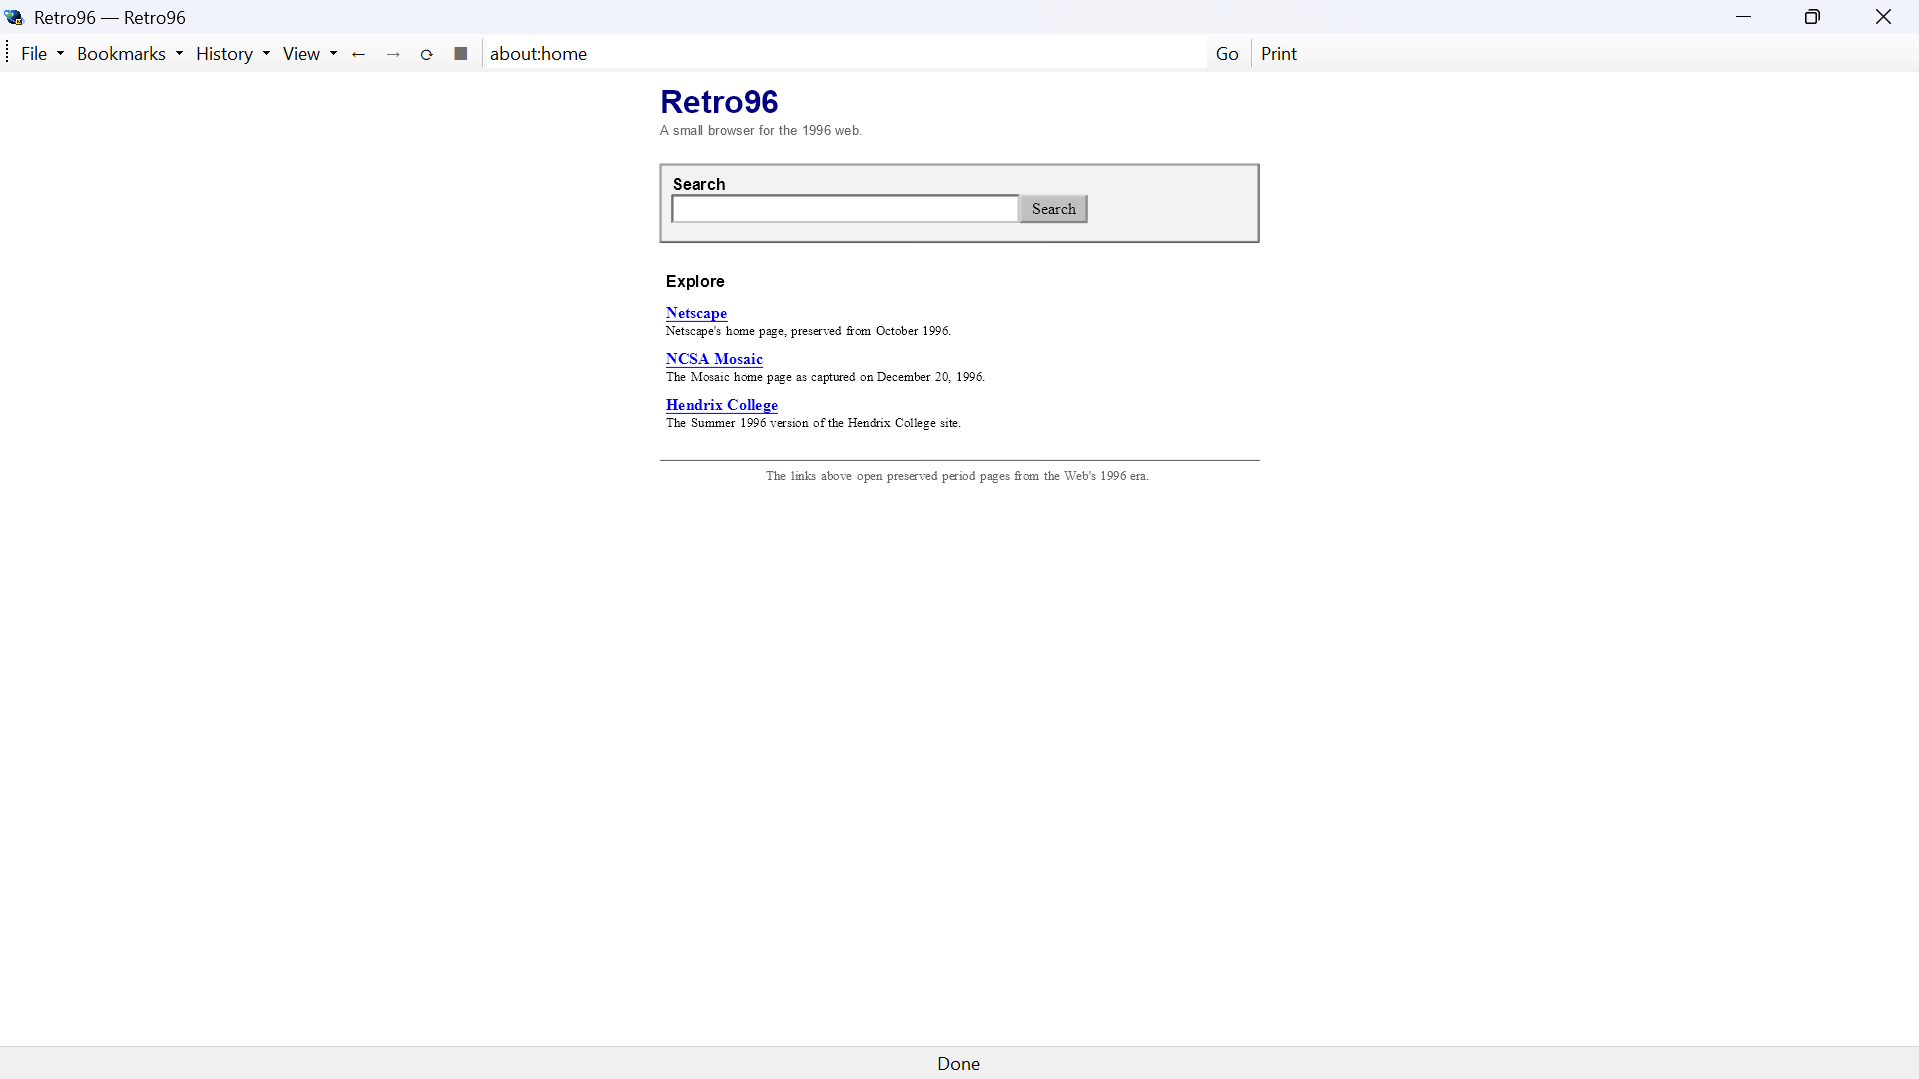
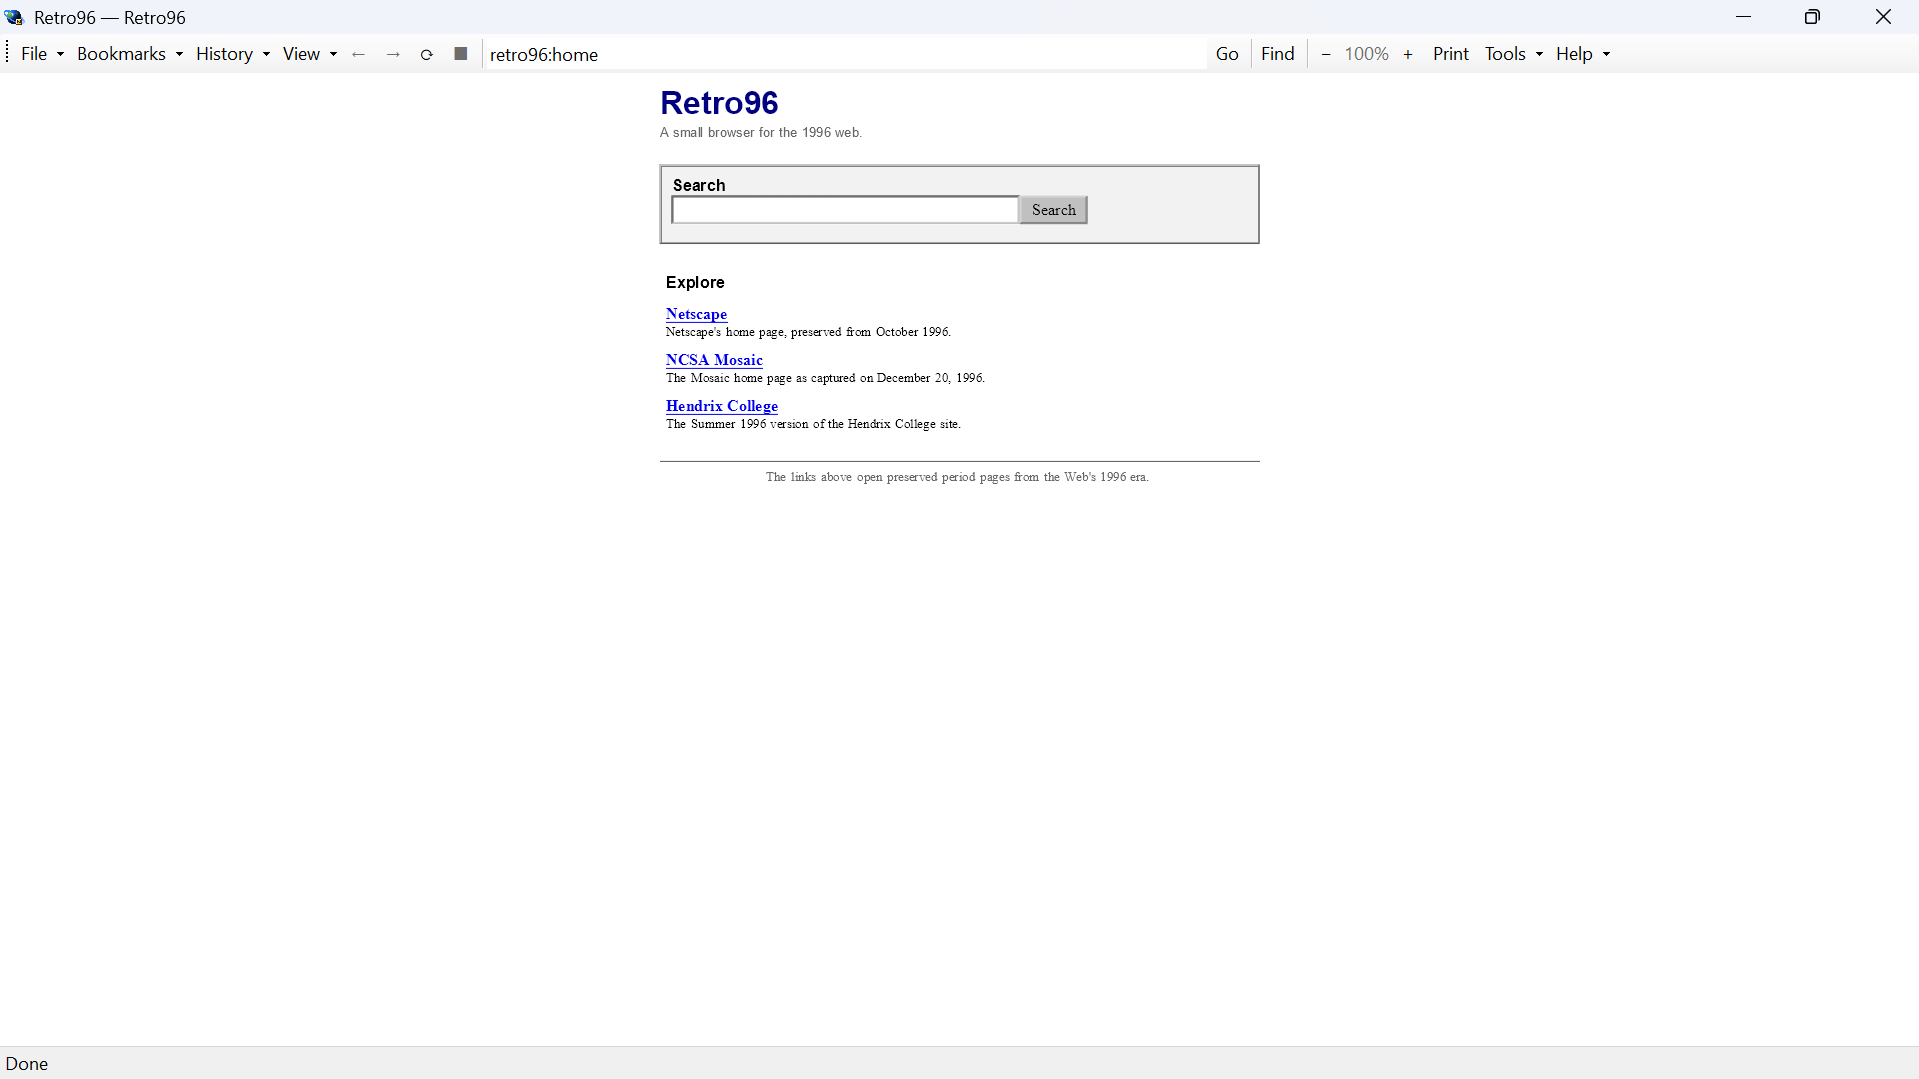
fix and update docs and screenshots

diff --git a/retro96/BrowserCanvas.cs b/retro96/BrowserCanvas.cs
@@ -5560,21 +5560,30 @@ public class BrowserCanvas : SKGLControl
             if (el.HasAttr("disabled"))
                 return;
 
-            string type = el.GetAttrOrDefault("type", "text").Trim().ToLowerInvariant();
             if (IsEditableField(el))
             {
                 if (HandleEditableFieldMouseDown(el, deepest!, x, y, null, _jsInterpreter, e))
                     return;
                 return;
             }
-            if (!IsPageSelectableControl(el))
-                return;
 
-            // Keep the pressed visual/activation state, but allow the pointer
-            // to fall through to the page range model so dragging can select
-            // the control's label instead of suppressing selection entirely.
+            // Paint the native-looking Win95 press immediately.  The chrome is
+            // recorded into the cached display list, so merely invalidating the
+            // control is not enough after changing PressedElement.
             _pressedControl = el;
             _pressedControlFrame = null;
+            RerenderNow();
+
+            if (!IsPageSelectableControl(el))
+            {
+                // Push buttons and other activation-only controls must own the
+                // pointer until mouse-up so their click is delivered reliably.
+                Capture = true;
+                return;
+            }
+
+            // Selectable controls still fall through to the page range model so
+            // dragging can select their label instead of suppressing selection.
         }
 
         // Page text selection drag.  FIX: a fresh press on blank space used

diff --git a/README.md b/README.md
@@ -6,7 +6,7 @@ Built for fun. Runs on Windows. Has no chill.
 
 ![Retro96 home page](docs/retro96-homepage.png)
 
-> ⚠ **WARNING: this is a big, real browser engine, not a toy.** `retro96/` alone is around 57k lines — a hand-written HTML tokenizer/parser, CSS parser + selector engine + style resolver, block/inline/table layout, a full ES3 engine (lexer, parser, interpreter, DOM bindings), a JDK 1.1 bytecode interpreter for Java applets, networking, and a Skia-backed renderer. If you don't already know C# and have never touched how a browser turns HTML into pixels, this is not a good first project to jump into — you'll spend most of your time lost in `Layout/`, `Js/` and `Java/` instead of shipping anything. Poke around the code out of curiosity, sure, but come in expecting a real codebase, not a weekend script.
+> ⚠ **WARNING: this is a big, real browser engine, not a toy.** This project alone is around 80K lines (entire codebase repo if you count every file) — a hand-written HTML tokenizer/parser, CSS parser + selector engine + style resolver, block/inline/table layout, a full ES3 engine (lexer, parser, interpreter, DOM bindings), a JDK 1.1 bytecode interpreter for Java applets, networking, and a Skia-backed renderer. If you don't already know C# and have never touched how a browser turns HTML into pixels, this is not a good first project to jump into — you'll spend most of your time lost in `Layout/`, `Js/` and `Java/` instead of shipping anything. Poke around the code out of curiosity, sure, but come in expecting a real codebase, not a weekend script.
 
 ## Why does this exist
 
@@ -153,7 +153,7 @@ and here's frogfind.com in Retro96, loaded instantly, no drama:
 
 ![frogfind.com in Retro96](docs/retro96-frogfind.png)
 
-the Rust project is roughly 25k lines. Retro96 is roughly 57k. one of them works
+the Rust project is roughly 29k lines. Retro96 is roughly 80k. one of them works
 
 ## Status
 
